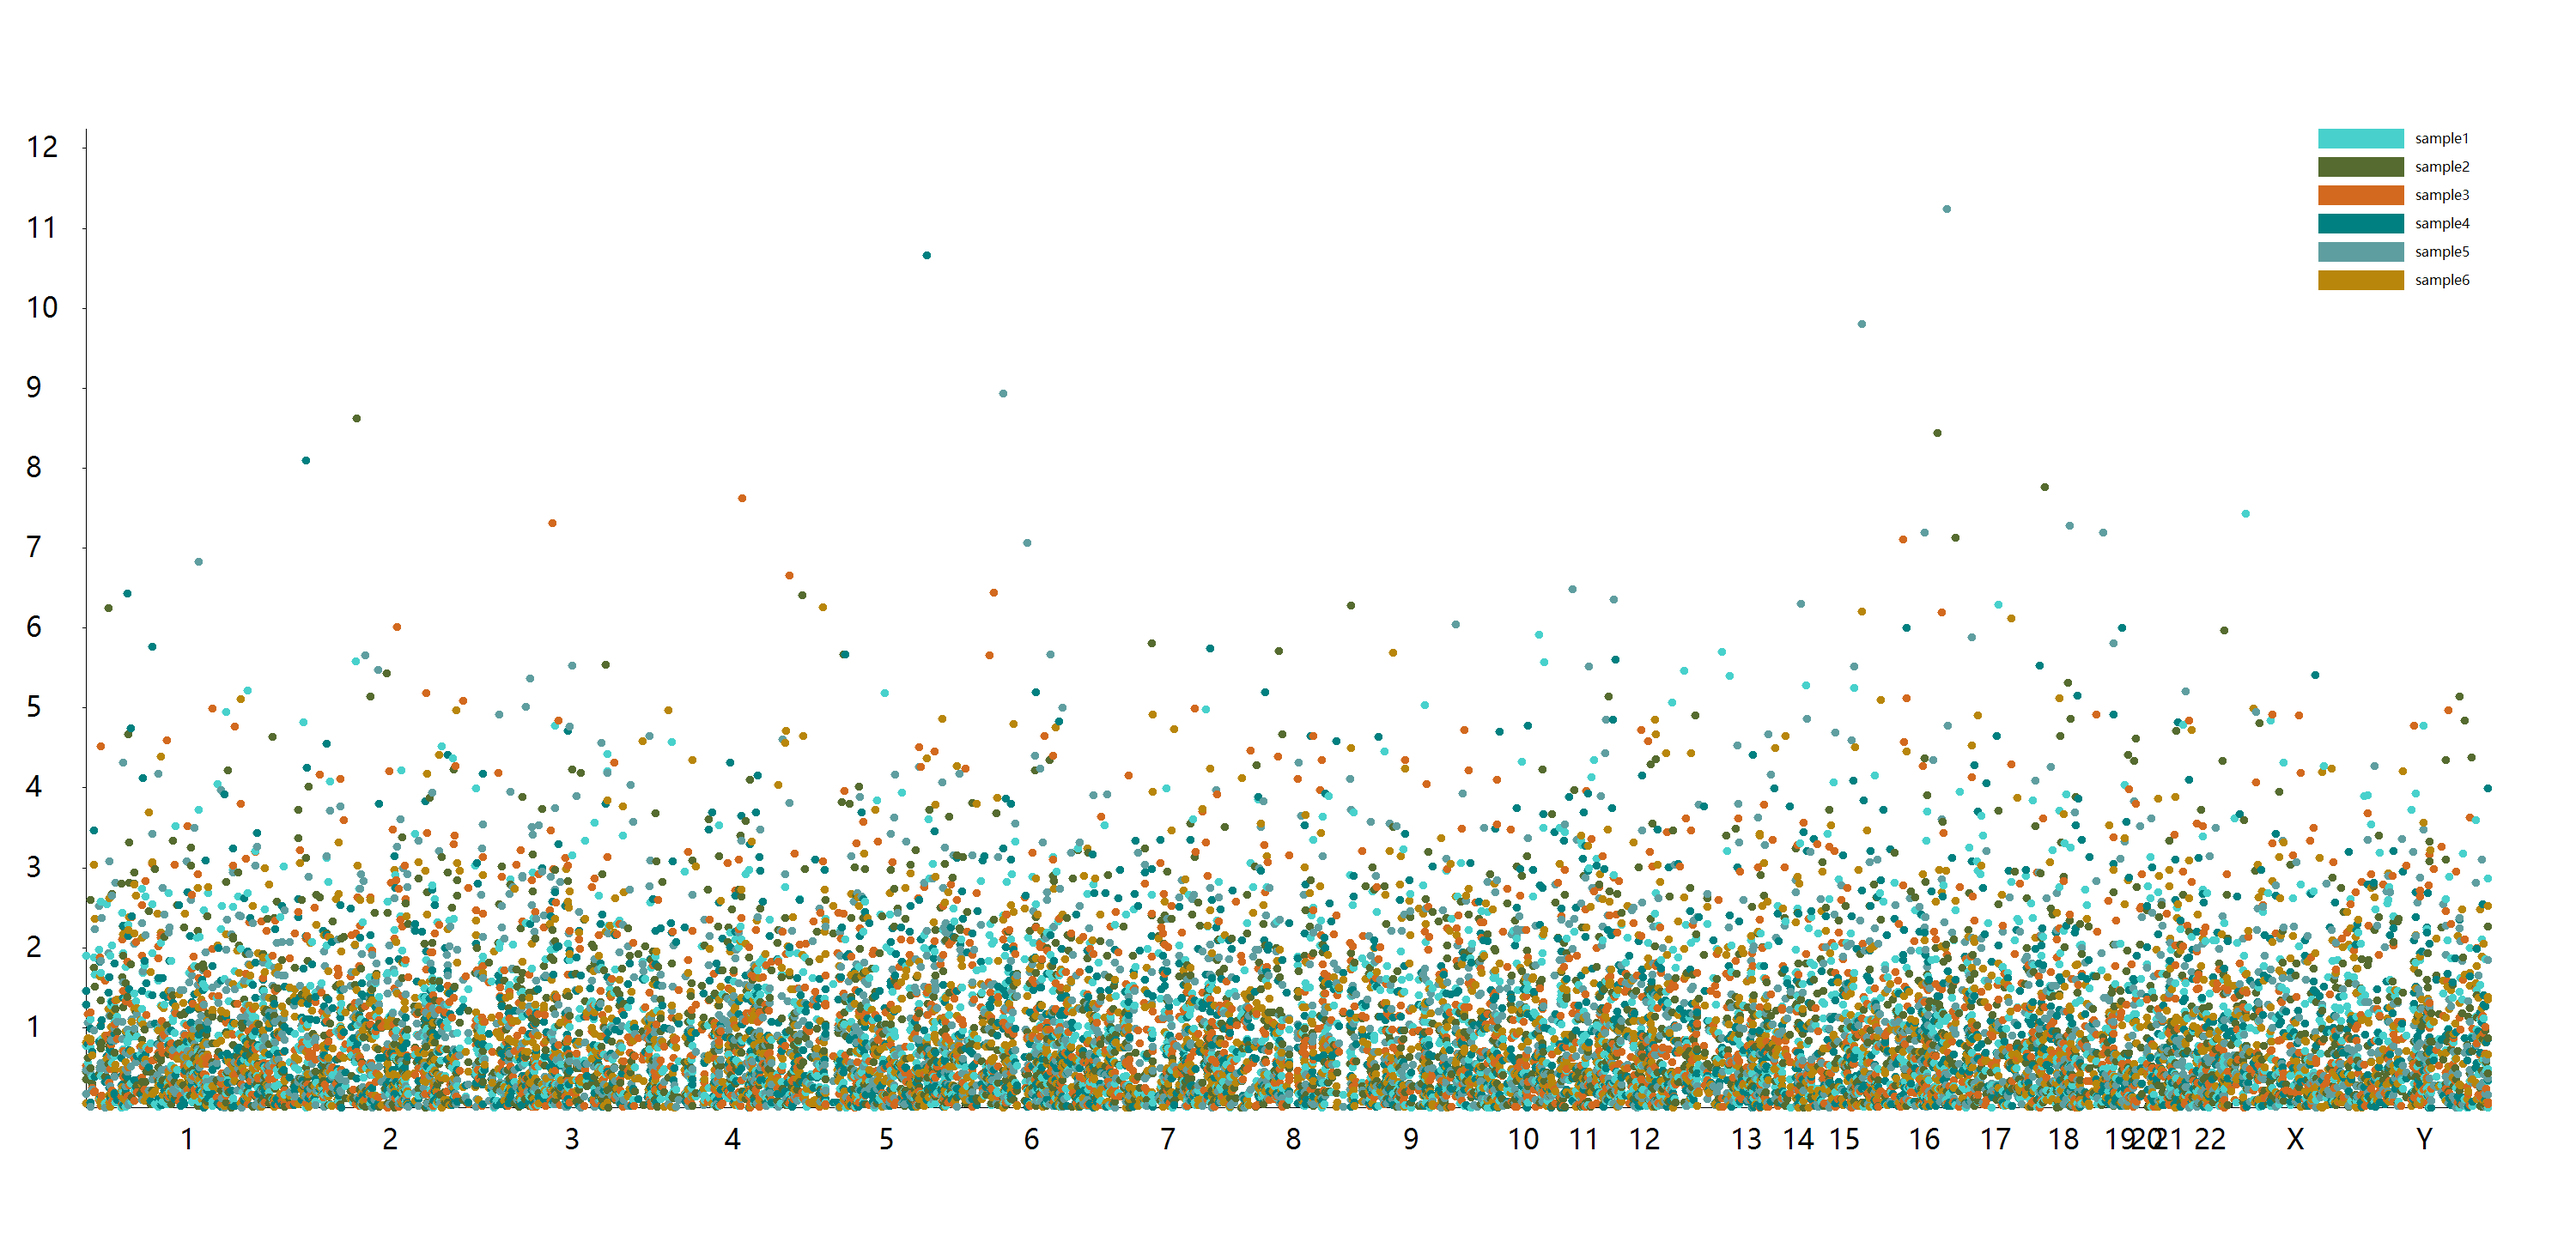
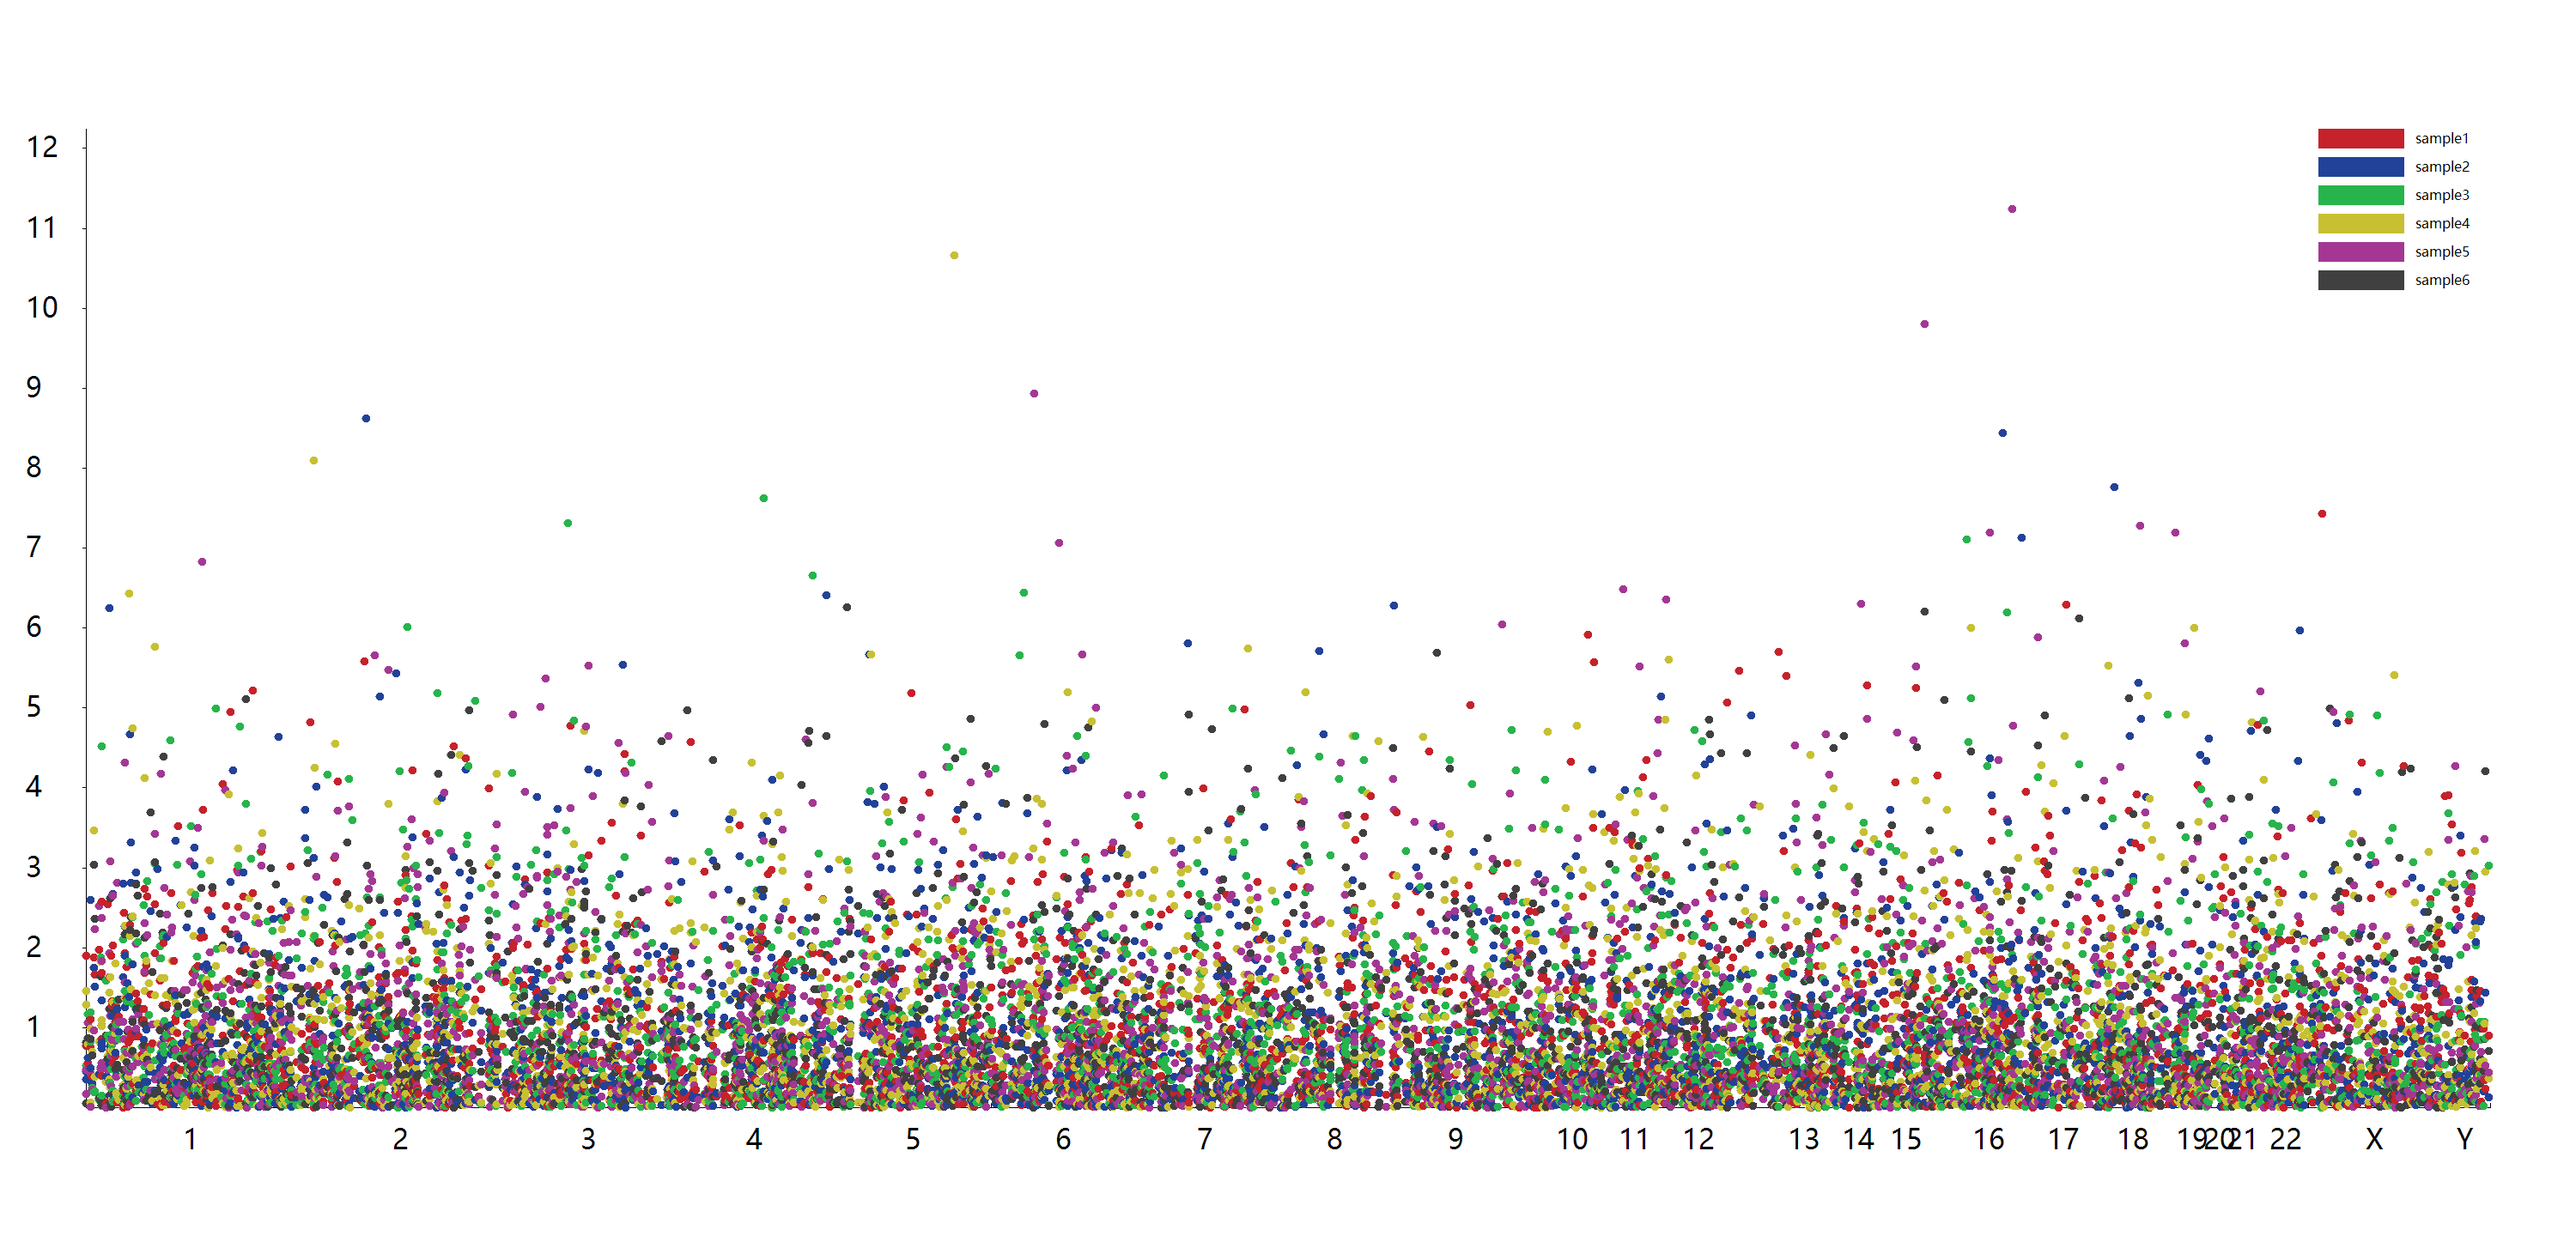
improvements on the test doc

diff --git a/README.md b/README.md
@@ -67,7 +67,7 @@ Canvas.Plot(System.Collections.Generic.IEnumerable(Of ManhattanPlot.SNP), Intege
 Dim image As Bitmap = data.Plot(colorPattern:="chr")
 Call image.SaveAs("./manhattan_plot_test.png", ImageFormats.Png)
 ```
-![](./example/manhattan_plot_test.png)
+![](./example/manhattan_plot_test_chr.png)
 
 
 ```vbnet
